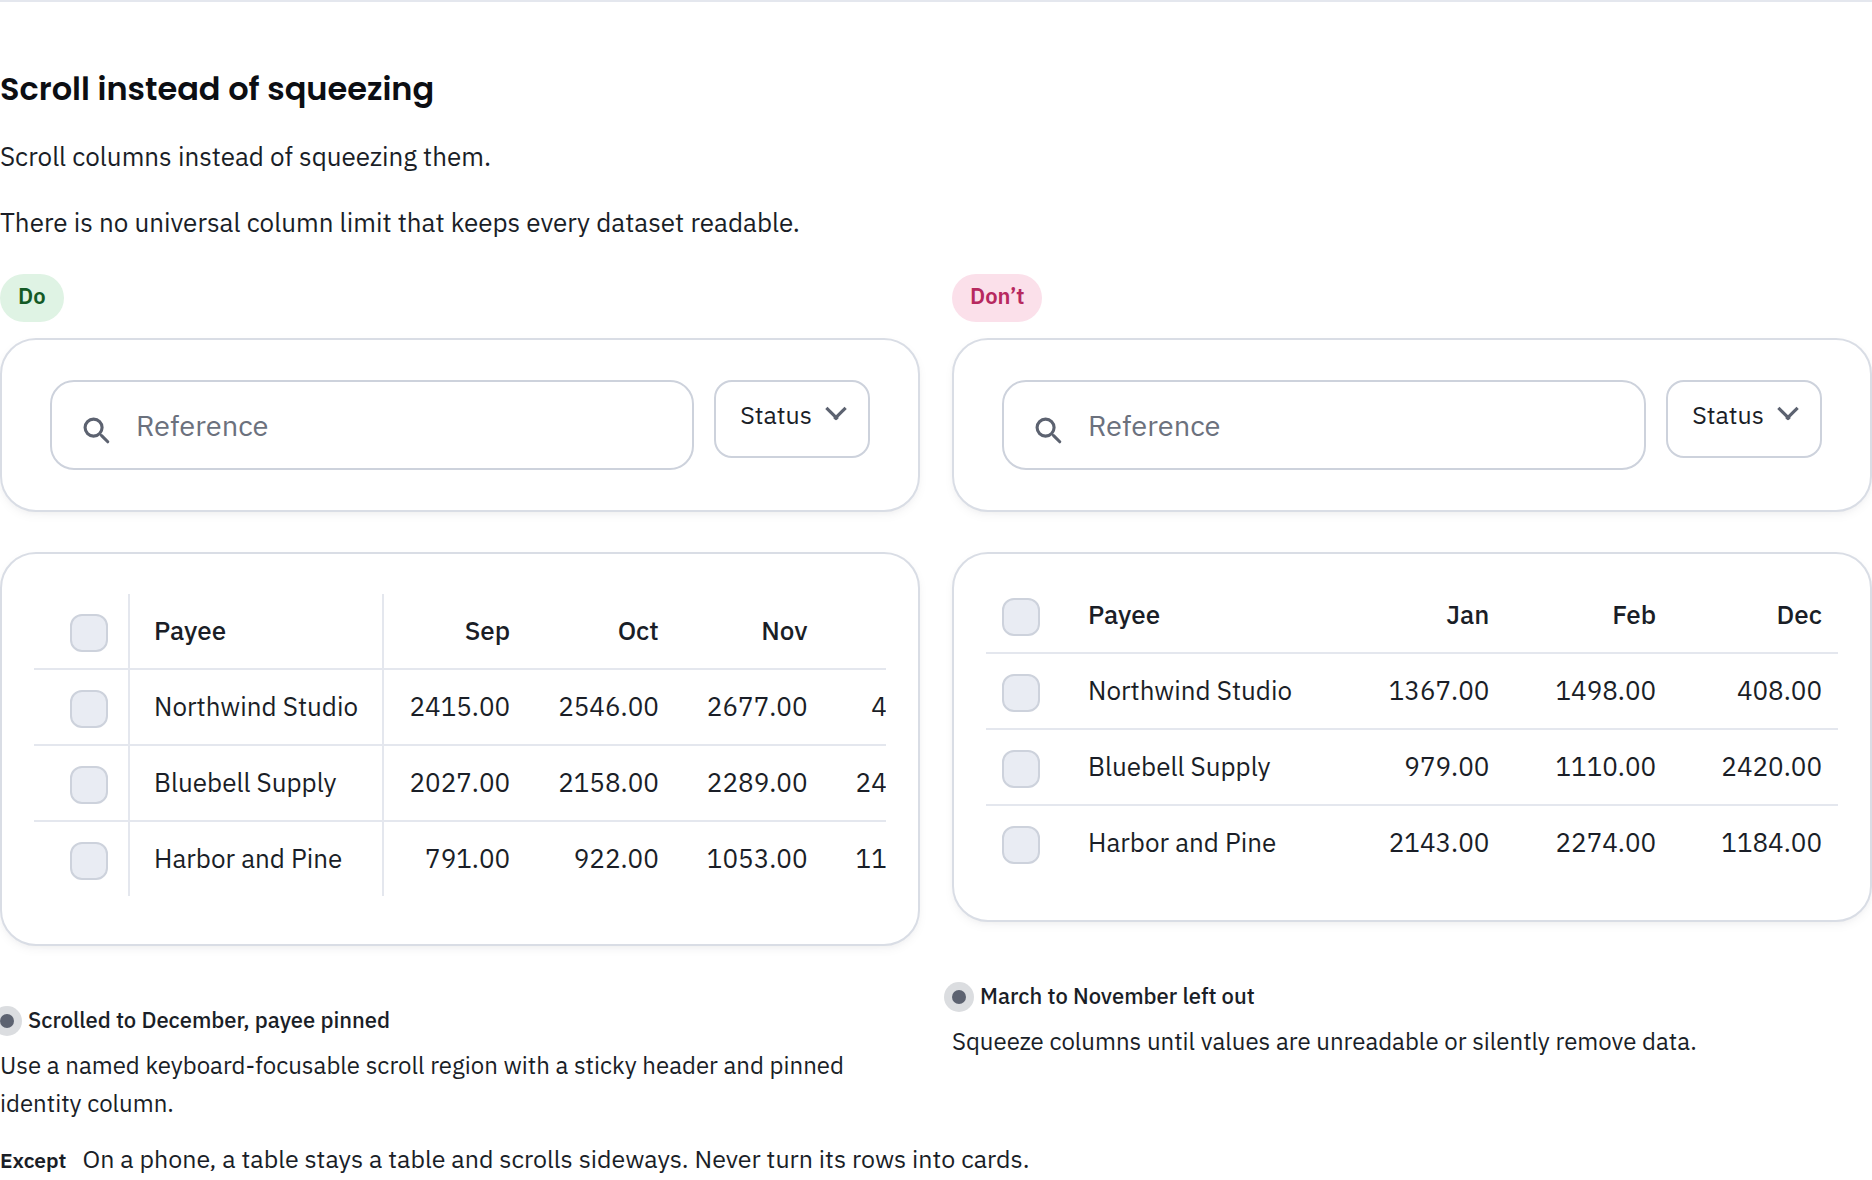
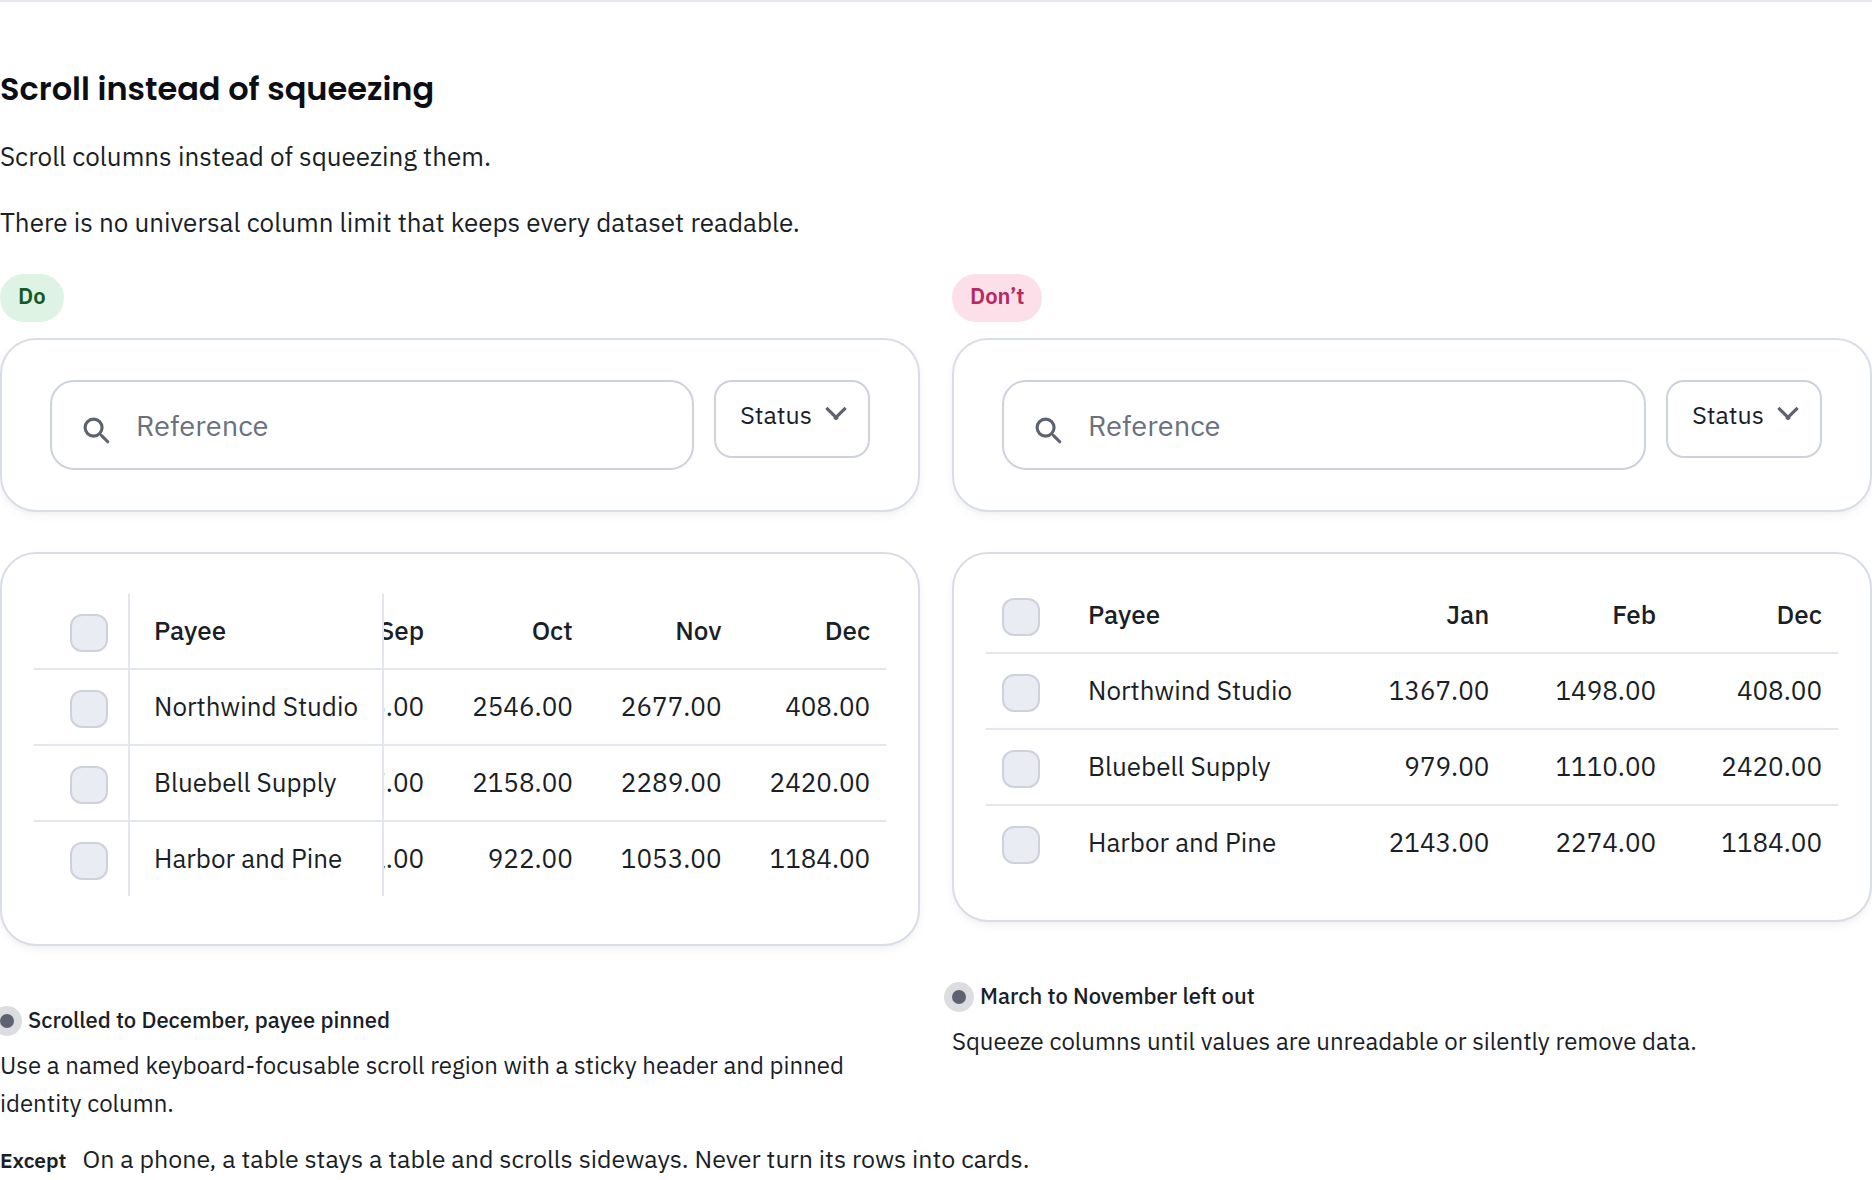
Dense tables: scroll the overflow Do to December again after the fonts load (#768)

diff --git a/react/src/guidelines.test.tsx b/react/src/guidelines.test.tsx
@@ -245,3 +245,37 @@ describe('guideline pages in React: the prose stands on the reading surface', ()
     expect(offGround(container)).toHaveLength(1);
   });
 });
+
+/* The overflow Do promises December in view. The web fonts widen the table after the
+ * first scroll, so the frame scrolls to its end again once the fonts are ready.
+ * Limits: JSDOM lays nothing out, so the widths are stubbed. Whether December is in
+ * view in a real browser is the measurement on the pull request. */
+describe('guideline pages in React: Dense tables', () => {
+  const page = pages.find(p => p.file.endsWith('/DenseTables.stories.tsx'))!;
+  it('scrolls the overflow Do to its end again after the fonts load', async () => {
+    let width = 400;
+    const left = new WeakMap<Element, number>();
+    const proto = HTMLElement.prototype;
+    const fonts = Object.getOwnPropertyDescriptor(document, 'fonts');
+    let loaded!: () => void;
+    Object.defineProperty(document, 'fonts', { configurable: true, value: { ready: new Promise<void>(r => { loaded = r; }) } });
+    Object.defineProperty(proto, 'scrollWidth', { configurable: true, get: () => width });
+    Object.defineProperty(proto, 'scrollLeft', { configurable: true,
+      get() { return left.get(this) ?? 0; }, set(value: number) { left.set(this, value); } });
+    try {
+      const frame = mount(page).querySelector('[data-rule="overflow"] [data-specimen="do"] .ui-table-scroll');
+      expect(frame, 'no scroll frame in the overflow Do: the gate is checking nothing').toBeTruthy();
+      expect(frame!.scrollLeft).toBe(400);
+      width = 463;
+      loaded();
+      await document.fonts.ready;
+      await Promise.resolve();
+      expect(frame!.scrollLeft).toBe(463);
+    } finally {
+      Reflect.deleteProperty(proto, 'scrollWidth');
+      Reflect.deleteProperty(proto, 'scrollLeft');
+      Reflect.deleteProperty(document, 'fonts');
+      if (fonts) Object.defineProperty(document, 'fonts', fonts);
+    }
+  });
+});

diff --git a/stories/guidelines/DenseTables.stories.tsx b/stories/guidelines/DenseTables.stories.tsx
@@ -129,9 +129,13 @@ const MONTHS = ['Jan', 'Feb', 'Mar', 'Apr', 'May', 'Jun', 'Jul', 'Aug', 'Sep', '
 type Year = { name: string } & Record<string, string>;
 const YEAR: Year[] = [['Northwind Studio', 11], ['Bluebell Supply', 7], ['Harbor and Pine', 19]].map(([name, seed]) =>
   ({ name: String(name), ...Object.fromEntries(MONTHS.map((month, i) => [month, `${(Number(seed) * 97 + i * 131) % 2400 + 300}.00`])) }));
+// The web fonts widen the table when they arrive, so scroll again once they have.
 const toEnd = (frame: HTMLDivElement | null) => {
   const scroll = frame?.querySelector<HTMLElement>('.ui-table-scroll');
-  if (scroll) scroll.scrollLeft = scroll.scrollWidth;
+  if (!scroll) return;
+  const end = () => { if (scroll.isConnected) scroll.scrollLeft = scroll.scrollWidth; };
+  end();
+  document.fonts?.ready.then(end);
 };
 const Overflow = ({ dropped = false }: { dropped?: boolean }) => <div className="gdt-stage ui-card ui-card--pad-sm" ref={dropped ? undefined : toEnd}>
   <DataTable<Year> dense pager={false} caption="Payouts by month" rows={YEAR}
